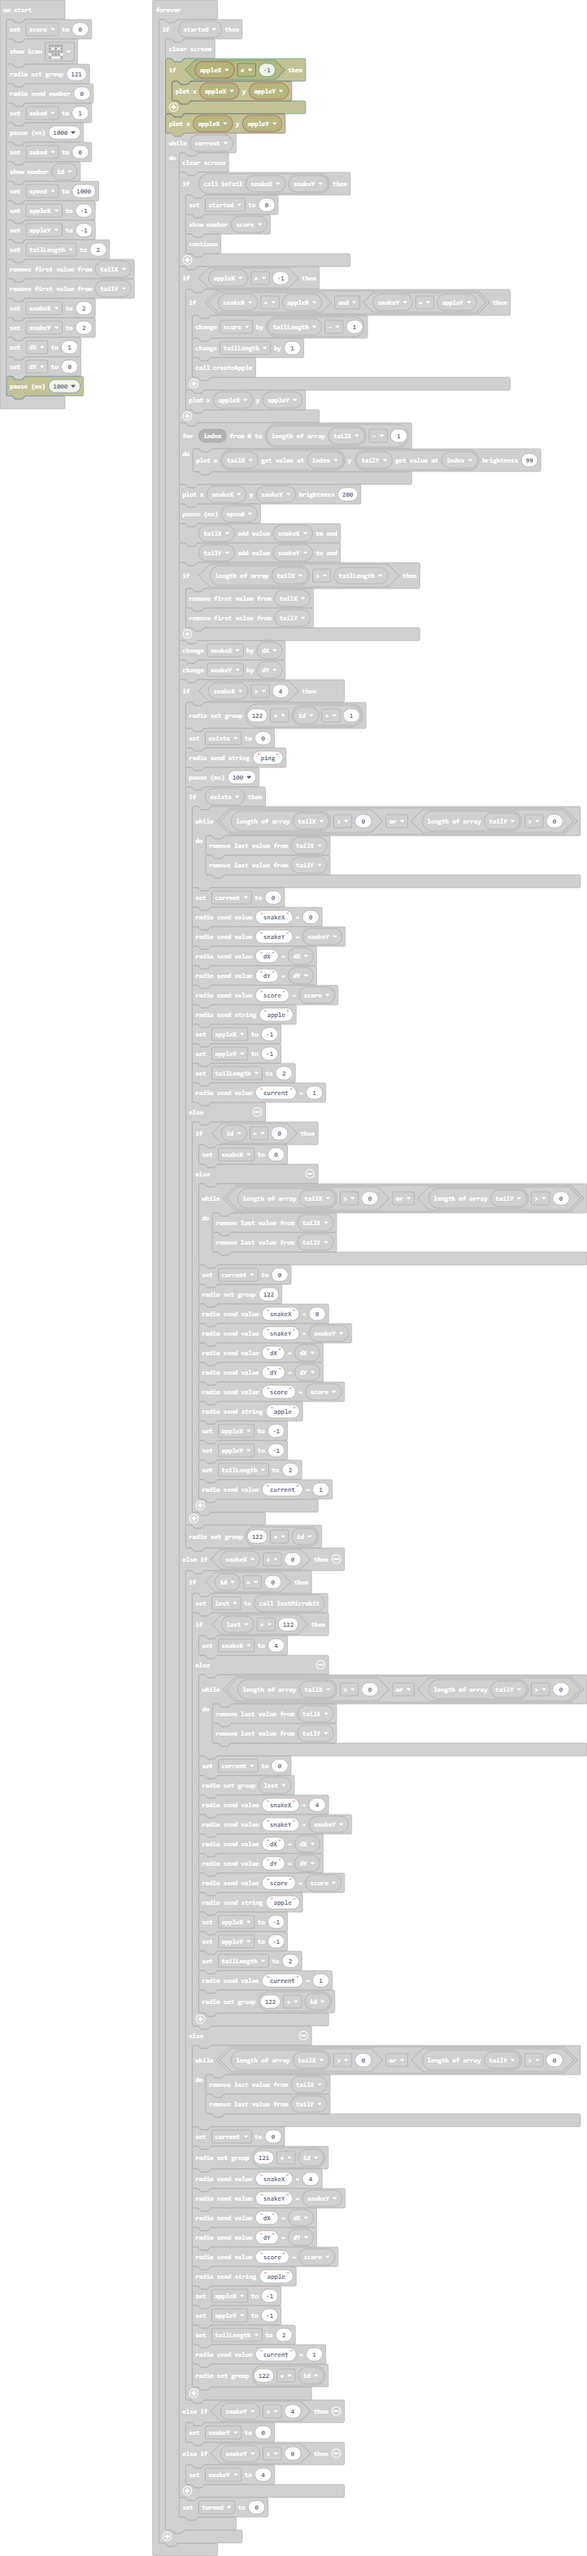
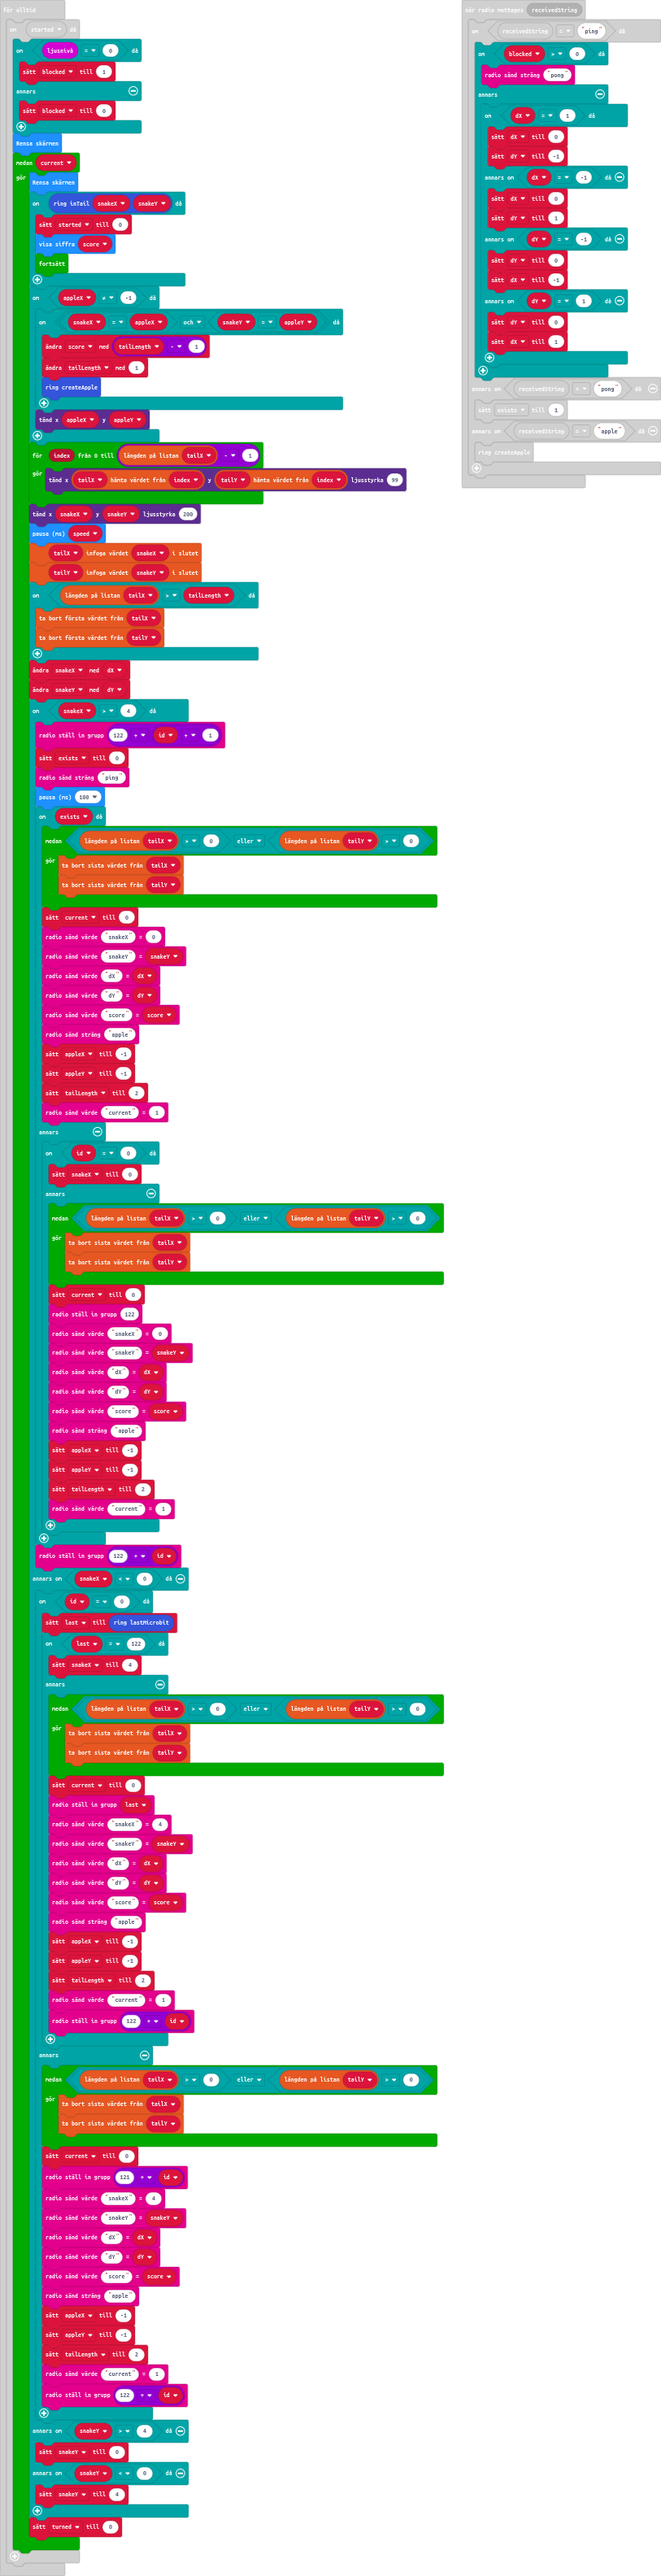
changes

diff --git a/main.ts b/main.ts
@@ -34,6 +34,15 @@ input.onButtonPressed(Button.A, function () {
         }
     }
 })
+input.onGesture(Gesture.Shake, function () {
+    if (!(started)) {
+        createApple()
+        radio.sendNumber(2)
+        radio.setGroup(122 + id)
+        started = 1
+        current = 1
+    }
+})
 function lastMicrobit () {
     for (let index = 0; index <= 5; index++) {
         radio.setGroup(123 + index)
@@ -66,7 +75,23 @@ function createApple () {
 }
 radio.onReceivedString(function (receivedString) {
     if (receivedString == "ping") {
-        radio.sendString("pong")
+        if (blocked > 0) {
+            radio.sendString("pong")
+        } else {
+            if (dX == 1) {
+                dX = 0
+                dY = -1
+            } else if (dX == -1) {
+                dX = 0
+                dY = 1
+            } else if (dY == -1) {
+                dY = 0
+                dX = -1
+            } else if (dY == 1) {
+                dY = 0
+                dX = 1
+            }
+        }
     } else if (receivedString == "pong") {
         exists = 1
     } else if (receivedString == "apple") {
@@ -93,15 +118,6 @@ input.onButtonPressed(Button.B, function () {
         }
     }
 })
-input.onGesture(Gesture.Shake, function () {
-    if (!(started)) {
-        createApple()
-        radio.sendNumber(2)
-        radio.setGroup(122 + id)
-        started = 1
-        current = 1
-    }
-})
 radio.onReceivedValue(function (name, value) {
     if (name == "snakeX") {
         snakeX = value
@@ -118,8 +134,9 @@ radio.onReceivedValue(function (name, value) {
     }
 })
 let last = 0
-let current = 0
+let blocked = 0
 let exists = 0
+let current = 0
 let turned = 0
 let started = 0
 let dY = 0
@@ -153,6 +170,11 @@ dX = 1
 dY = 0
 basic.forever(function () {
     if (started) {
+        if (input.lightLevel() == 0) {
+            blocked = 1
+        } else {
+            blocked = 0
+        }
         basic.clearScreen()
         while (current) {
             basic.clearScreen()
